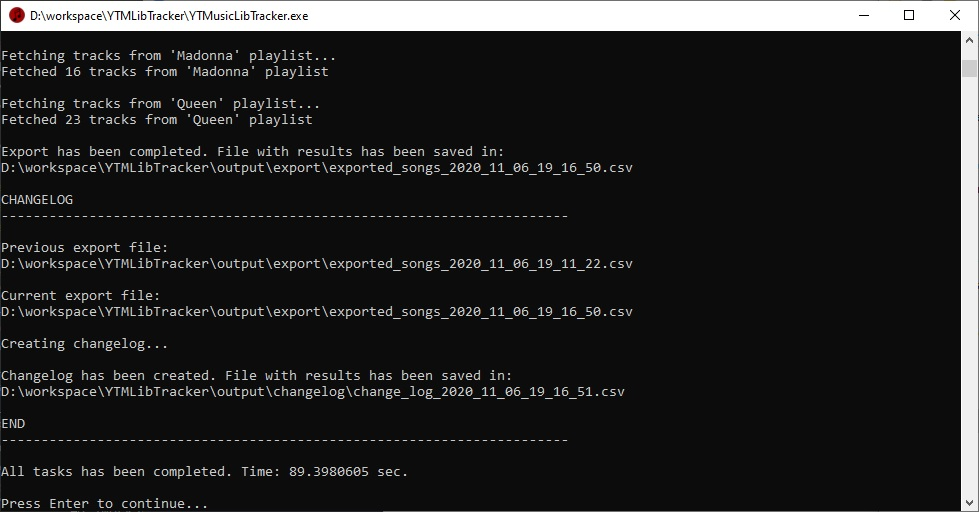
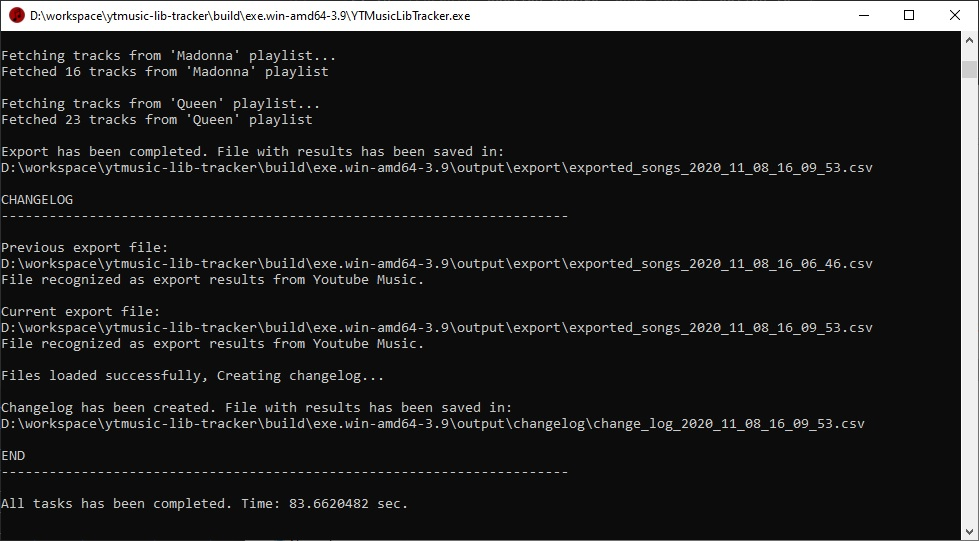
Create changelog during first run, updated doc

diff --git a/ytmusiclibtracker/create_library_changelog.py b/ytmusiclibtracker/create_library_changelog.py
@@ -123,15 +123,17 @@ def create_library_changelog():
     log('CHANGELOG')
     log('-----------------------------------------------------------------------', True)
     initialize_global_params_from_config_file()
-    if previous_export_file and current_export_file:
-
-        log('Previous export file: ')
-        log(os.path.abspath(previous_export_file), True)
-        previous_song_rows = import_track_records_from_csv_file(previous_export_file)
-        log('Current export file: ')
-        log(os.path.abspath(current_export_file), True)
-        log('Creating changelog...', True)
-        current_song_rows = import_track_records_from_csv_file(current_export_file)
+    if current_export_file:
+        previous_song_rows = []
+        current_song_rows = []
+        if previous_export_file:
+            log('Previous export file: ')
+            log(os.path.abspath(previous_export_file))
+            previous_song_rows.extend(import_track_records_from_csv_file(previous_export_file))
+        log('\nCurrent export file: ')
+        log(os.path.abspath(current_export_file))
+        current_song_rows.extend(import_track_records_from_csv_file(current_export_file))
+        log('\nFiles loaded successfully, Creating changelog...', True)
 
         track_matches = create_match_results(previous_song_rows, current_song_rows)
         duplicates = create_duplicates_results(current_song_rows)
@@ -142,8 +144,6 @@ def create_library_changelog():
         filename = export_track_matches_to_csv_file(changelog_results)
         log('Changelog has been created. File with results has been saved in:')
         log(filename, True)
-    elif (not previous_export_file) and current_export_file:
-        log('Changelog skipped. Only one export file exists.', True)
     else:
         log('Changelog cannot be created. Previous and Current Export files not found.', True)
 

diff --git a/setup.py b/setup.py
@@ -7,7 +7,7 @@ setup(
     author_email='lukasz.lenart912@gmail.com',
     packages=['ytmusiclibtracker'],
     install_requires=['ytmusicapi >=0.10.1', 'unidecode'],
-    version='1.0',
+    version='1.1',
     license='MIT',
     description='Useful tools for youtube music. Exporting library to csv, tracking changes in library, summary of transfer from GPM',
     long_description=open('README.md').read(),

diff --git a/ytmusiclibtracker/csv_wrapper.py b/ytmusiclibtracker/csv_wrapper.py
@@ -34,6 +34,7 @@ def get_list_of_rows_from_file(filename):
 
 def get_convert_function_by_headers(header):
     if header == get_ytmlt_export_headers():
+        log('File recognized as export results from Youtube Music.')
         return lambda row: row
     if header == get_gpm_export_headers():
         log('File recognized as export results from Google Play Music.')

diff --git a/README.md b/README.md
@@ -3,16 +3,17 @@
 This project contains useful tools for YouTube Music users:
 
   * Exporting user's library to csv
-  * Listing duplicates on playlist  
+  * Listing duplicated songs
+  * Listing unavailable songs 
   * Tracking changes in user's library
   * Exporting summary of transfer from GPM 
 
 ### Installation
 
-1. [Download Zip file with app.](https://github.com/czifumasa/ytmusic-lib-tracker/releases/latest/download/YTMLibTracker.zip)
+1. [Download Zip file with app.](https://github.com/czifumasa/ytmusic-lib-tracker/releases/latest/download/YTMLibTracker-Windows.zip)
 1. Extract zip file.
 
-#### Authentication
+#### Authentication and Usage
 
 Before starting, you will also have to provide header file to authenticate api requests to your YouTubeMusic account.
 Unfortunately, at least for now, it's a bit complicated, so please follow this guide:
@@ -58,26 +59,26 @@ Unfortunately, at least for now, it's a bit complicated, so please follow this g
 11. Paste copied headers into terminal and press `enter` twice
 12. That's all! Export of your library should start.
 13. Depending on the size of your library it may take up to a few minutes to complete the export.
-14. After finish, you can find the results in `output` directory in the main app's folder. 
+14. When it's done you should see the proper message:
+![IMAGE](https://raw.githubusercontent.com/czifumasa/ytmusic-lib-tracker/master/docs/assets/images/end_message.JPG)
+15. Press `Enter` to close application. 
+16. Go to the main application folder. Your whole library, uploaded songs and playlist has been exported and saved in CSV file. 
+With default settings you can find export results in `output\export` directory and changelog in `output\changelog`. 
 
-
-The cookie should not expire, unless you will manually log out of web client. If you have problems with authentication, remove `headers_auth.json` file from main application folder and try to run `YTMusicLibTracker.exe` again.
+The cookie you used for authentication should not expire, so the next time you run the app, you will be already logged in.  
+However, If you have any problems with authentication, remove `headers_auth.json` file from main application folder and try to run `YTMusicLibTracker.exe` again to update your cookie file.
   
 ## Features                                                                                                         
  
 ### Export 
 After correct authentication, export of your library will start automatically. 
 Depending on the size of your library it may take some time to finish.
-When it's done you should see the proper message:
-![IMAGE](https://raw.githubusercontent.com/czifumasa/ytmusic-lib-tracker/master/docs/assets/images/end_message.JPG) 
-
-Press `Enter` to close application. Then go to the main application folder.
-All your library has been exported and saved in CSV file. 
-With default settings you can find it in `output\export` directory. 
-CSV file is using `|` as column separator. 
+With default settings you can find the results in `output\export`. 
+CSV file is using `|` as column separator. It contains following columns:
+`Artists,Title,Album,VideoId,SetVideoId,Playlist,PlaylistId,IsAvailable`
 
 ### Changelog 
-If you will run export for the second time CSV file with changelog data will be created. 
+After successfull export, CSV file with changelog data will be created. 
 With default settings you can find it in `output\changelog` directory.
 
 Changelog will contain:
@@ -100,7 +101,27 @@ If you want to change the account from you are importing data:
 3. Run `YTMusicLibTracker.exe`
 4. You will be asked to paste request headers again, so repeat the procedure described in [Authentication](#authentication) section.
    This time you should be logged in to your second youtube account.
-    
+
+### Summary of transfer from GPM
+Warning: For some users this feature can be unavailable as Google Play Music is shutting down and in some countries it's no longer accessible.
+So it won't be possible to export your GPM library. You can try to workaround it by opening GPM with deeper link instead of Home Page.
+For example this one: [Go to GPM](https://play.google.com/music/listen?u=1#/artists)
+
+If you want to compare export results from Google Play Music and see what happened after transferring your library to YTM:
+
+1. Run `YTMusicLibTracker.exe` and create export file. 
+1. Create csv file with exported google play music playlists using [gmusis-playlist.js](https://github.com/soulfx/gmusic-playlist.js).
+(Check its documentation for details). Use Google Chrome as it may no longer work in firefox.
+2. Move that file to directory with export results (by default it's `/output/export`). 
+3. Open `config.ini` from app's main folder.
+4. In `[Export]` section:
+   * change `skip_export` option to `1`      
+5. In `[Changelog]` section:
+    * change `auto_detect` option to `0` 
+    * set `current_file` option as path to your export file from YTM (The one from first step)
+    * set `previous_file` option as path to your export file from GPM (The one from second step)
+6. Finally, you can run `YTMusicLibTracker.exe` again. Now created changelog will compare your GPM and YTM libraries.
+7. Revert your `config.ini` file to default options, by replacing its content with this: [Config.ini](https://raw.githubusercontent.com/czifumasa/ytmusic-lib-tracker/master/config.ini)
 
 ### Manual Changelog
 With default behaviour, your youtube music library will be exported and changelog will be created based on comparison of current and previous exports.
@@ -111,21 +132,6 @@ If you want to compare specific files:
 3. In `[CHANGELOG]` section change `auto_detect` option to `0` 
 4. In `[CHANGELOG]` section modify `previous_file` and `current_file` with the paths to file you want to use in comparison
 5. Save `config.ini` file.
-
-### Summary of transfer from GPM
-Warning: For some users this feature can be unavailable as Google Play Music is shutting down and in some countries it's no longer accessible.
-So it won't be possible to export your GPM library. You can try to workaround it by opening GPM with deeper link instead of Home Page.
-For example this one: [Go to GPM](https://play.google.com/music/listen?u=1#/artists)
-
-If you want to compare export results from Google Play Music and see what happened after transferring your library to YTM,
-you can create csv file with exported google play music playlists using [gmusis-playlist.js](https://github.com/soulfx/gmusic-playlist.js).
-(Check its documentation for details).
-
-Next, move that file to directory with export results (by default it's `/output/export`). 
-Then open `config.ini`. In `[Changelog]` section change `auto_detect` option to `0` and set `previous_file` as path to your export file from GPM
-and `current_file` as path to your export file from YTM.
-  
-Finally, you can run `YTMusicLibTracker.exe`. Now created changelog will compare your GPM and YTM libraries.
 
 ## Contribution
 
